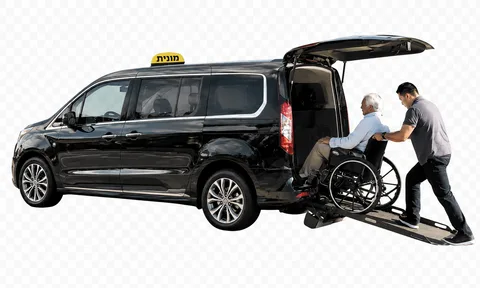
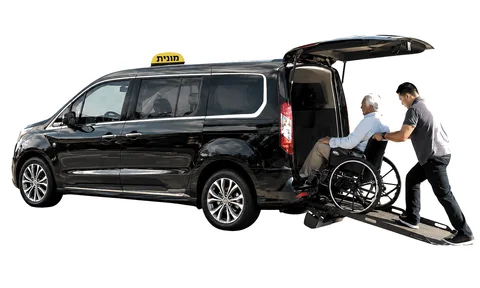
Rebuild landing page: real car images, bug fixes, a11y, SEO, Vercel config
- Fleet grid now uses 4 real car photos (WebP, checkerboard cleaned) + VIP
- Hero uses car image as LCP element (fetchpriority, srcset, width/height)
- Fix pickCity quote-injection bug (index-based lookup + escape helper)
- WhatsApp message template restored to brief wording
- Intro shortened to 0.9s, no scroll-lock (LCP < 2.5s)
- Built-in accessibility widget (font, contrast, links, stop-anim, reset; localStorage + ARIA)
- Local font-face + preload (removed Google Fonts CDN); added silver palette
- FAQPage JSON-LD now matches visible FAQ (5 items); expanded areaServed; favicon/OG links
- Floating WhatsApp moved to right (RTL); skip-link + modal focus-trap
- ~60 cities for autocomplete + service areas
- Add vercel.json (static deploy, cache + security headers) and .gitignore
- Stop tracking heavy source PNGs (WebP versions ship from assets/)

diff --git a/index.html b/index.html
@@ -199,8 +199,8 @@ header.scrolled{background:rgba(11,11,13,.9);border-block-end-color:var(--line);
 @media(max-width:880px){.nav-links{display:none}.nav .btn-gold{padding:10px 18px}}
 
 /* ====================== hero ====================== */
-.hero{position:relative;min-height:100svh;display:flex;align-items:center;
-  padding-block:120px 70px;overflow:hidden}
+.hero{position:relative;min-height:min(760px,92svh);display:flex;align-items:center;
+  padding-block:104px 64px;overflow:hidden}
 .hero::before{content:"";position:absolute;inset-block-start:-22%;inset-inline-end:-12%;
   width:720px;height:720px;border-radius:50%;
   background:radial-gradient(circle,var(--gold-glow),transparent 60%);filter:blur(24px);z-index:0;
@@ -264,8 +264,7 @@ header.scrolled{background:rgba(11,11,13,.9);border-block-end-color:var(--line);
 .car-card:hover{border-color:rgba(217,190,134,.4);transform:translateY(-4px)}
 .car-card:hover::before{transform:scaleX(1)}
 .car-card.vip{border-color:rgba(217,190,134,.3)}
-.car-media{position:relative;aspect-ratio:16/10;
-  background:linear-gradient(160deg,#EEF0F2,#D7DBE0 60%,#C9CDD3);overflow:hidden;
+.car-media{position:relative;aspect-ratio:16/10;background:#fff;overflow:hidden;
   display:flex;align-items:center;justify-content:center}
 .car-media img{width:100%;height:100%;object-fit:cover;object-position:center;
   transition:transform .6s var(--ease)}
@@ -714,3 +713,192 @@ function toggleFaq(btn){
   const item=btn.parentElement, ans=item.querySelector(".faq-a"), open=item.classList.toggle("open");
   btn.setAttribute("aria-expanded",open); ans.style.maxHeight = open ? ans.scrollHeight+"px" : null;
 }
+
+/* ---------- modal + two-step flow ---------- */
+let lastFocus=null;
+function setFieldError(inputId,errId,msg){
+  const inp=$(inputId),err=$(errId);
+  if(msg){ inp.setAttribute("aria-invalid","true"); err.textContent=msg; inp.focus(); }
+  else { inp.setAttribute("aria-invalid","false"); err.textContent=""; }
+}
+function openModal(key){
+  state.vehicle=VEHICLES.find(v=>v.key===key); state.origin=""; state.destination=""; state.step=1;
+  $("vehicleTag").textContent=state.vehicle.name;
+  $("originInput").value=""; $("destInput").value="";
+  setFieldError("originInput","originErr",null); setFieldError("destInput","destErr",null);
+  showStep(1);
+  lastFocus=document.activeElement;
+  const ov=$("overlay"); ov.classList.add("show"); ov.setAttribute("aria-hidden","false");
+  document.body.classList.add("locked");
+  setTimeout(()=>$("originInput").focus(),130);
+}
+function closeModal(){
+  const ov=$("overlay"); ov.classList.remove("show"); ov.setAttribute("aria-hidden","true");
+  document.body.classList.remove("locked"); if(lastFocus)lastFocus.focus();
+}
+function showStep(n){
+  state.step=n; $("step1").style.display=n===1?"block":"none"; $("step2").style.display=n===2?"block":"none";
+  $("dot1").classList.toggle("active",n>=1); $("dot2").classList.toggle("active",n>=2);
+  if(n===2){ updatePreview(); setTimeout(()=>$("destInput").focus(),70); }
+}
+function goStep(n){
+  if(n===2){
+    const v=$("originInput").value.trim();
+    if(!v){ setFieldError("originInput","originErr","נא להזין כתובת מוצא"); return; }
+    setFieldError("originInput","originErr",null); state.origin=v;
+  }
+  showStep(n);
+}
+function updatePreview(){
+  state.destination=$("destInput").value.trim();
+  $("msgPreview").innerHTML=`ההודעה שתישלח:\n<b>שלום, מעוניין/ת להזמין ${esc(state.vehicle.msg)}.</b>\n`+
+    `מוצא: <b>${esc(state.origin||"—")}</b>\nיעד: <b>${esc(state.destination||"—")}</b>\nמתי: עכשיו`;
+}
+function buildLink(text){ return `https://wa.me/${CONFIG.whatsappNumber}?text=${encodeURIComponent(text)}`; }
+function sendWhatsApp(){
+  state.destination=$("destInput").value.trim();
+  if(!state.destination){ setFieldError("destInput","destErr","נא להזין כתובת יעד"); return; }
+  setFieldError("destInput","destErr",null);
+  const text=`שלום, מעוניין/ת להזמין ${state.vehicle.msg}.\nמוצא: ${state.origin}\nיעד: ${state.destination}\nמתי: עכשיו`;
+  track("lead_whatsapp",{vehicle:state.vehicle.key,origin:state.origin,destination:state.destination});
+  window.open(buildLink(text),"_blank"); closeModal();
+}
+function generalWhatsApp(){ track("lead_whatsapp_general",{}); window.open(buildLink("שלום, אשמח לפרטים ולהזמנת מונית."),"_blank"); }
+
+function track(event,params){
+  try{ window.dataLayer=window.dataLayer||[]; window.dataLayer.push({event,...params});
+    if(typeof gtag==="function")gtag("event",event,params);
+    if(typeof fbq==="function")fbq("trackCustom",event,params);
+    console.log("[track]",event,params);
+  }catch(e){console.warn(e);}
+}
+
+/* ---------- autocomplete combobox (index-based, quote-safe) ---------- */
+function setupCombo(inputId,listId){
+  const input=$(inputId),list=$(listId); let hl=-1;
+  const hide=()=>{ list.classList.remove("show"); input.setAttribute("aria-expanded","false"); };
+  const render=q=>{
+    const items=CONFIG.cities.filter(c=>c.includes(q)).slice(0,8);
+    if(!items.length||(items.length===1&&items[0]===q)){ hide(); return; }
+    list._items=items;
+    list.innerHTML=items.map((c,i)=>
+      `<button type="button" role="option" data-i="${i}" onmousedown="event.preventDefault()" onclick="pickCity('${inputId}','${listId}',${i})">${esc(c)}</button>`
+    ).join("");
+    list.classList.add("show"); input.setAttribute("aria-expanded","true"); hl=-1;
+  };
+  input.addEventListener("input",e=>{
+    setFieldError(inputId, inputId==="originInput"?"originErr":"destErr", null);
+    render(e.target.value.trim()); if(inputId==="destInput")updatePreview();
+  });
+  input.addEventListener("focus",e=>{ if(e.target.value.trim())render(e.target.value.trim()); });
+  input.addEventListener("blur",()=>setTimeout(hide,150));
+  input.addEventListener("keydown",e=>{
+    const btns=[...list.querySelectorAll("button")];
+    if(e.key==="ArrowDown"){e.preventDefault();hl=Math.min(hl+1,btns.length-1);}
+    else if(e.key==="ArrowUp"){e.preventDefault();hl=Math.max(hl-1,0);}
+    else if(e.key==="Enter"&&hl>=0&&btns[hl]){e.preventDefault();btns[hl].click();return;}
+    else if(e.key==="Escape"){hide();return;}
+    else return;
+    btns.forEach((b,i)=>b.classList.toggle("hl",i===hl));
+  });
+}
+function pickCity(inputId,listId,i){
+  const list=$(listId); const city=(list._items||[])[i]; if(city==null)return;
+  $(inputId).value=city; list.classList.remove("show"); $(inputId).setAttribute("aria-expanded","false");
+  setFieldError(inputId, inputId==="originInput"?"originErr":"destErr", null);
+  if(inputId==="destInput")updatePreview();
+}
+
+/* ---------- focus trap for modal ---------- */
+function trapFocus(e){
+  const ov=$("overlay"); if(!ov.classList.contains("show")||e.key!=="Tab")return;
+  const f=[...ov.querySelectorAll('button,[href],input,[tabindex]:not([tabindex="-1"])')]
+    .filter(el=>el.offsetParent!==null);
+  if(!f.length)return;
+  const first=f[0], last=f[f.length-1];
+  if(e.shiftKey&&document.activeElement===first){e.preventDefault();last.focus();}
+  else if(!e.shiftKey&&document.activeElement===last){e.preventDefault();first.focus();}
+}
+
+function applyConfig(){
+  $("footPhone").textContent="טלפון: "+CONFIG.displayPhone;
+  $("footPhone").href="tel:"+CONFIG.displayPhone.replace(/\D/g,"");
+  $("footHours").textContent=CONFIG.hoursText; $("yr").textContent=new Date().getFullYear();
+  if(CONFIG.ga4Id){const s=document.createElement("script");s.async=true;
+    s.src="https://www.googletagmanager.com/gtag/js?id="+CONFIG.ga4Id;document.head.appendChild(s);
+    window.dataLayer=window.dataLayer||[];window.gtag=function(){dataLayer.push(arguments)};
+    gtag("js",new Date());gtag("config",CONFIG.ga4Id);}
+  if(CONFIG.metaPixelId){!function(f,b,e,v,n,t,s){if(f.fbq)return;n=f.fbq=function(){n.callMethod?n.callMethod.apply(n,arguments):n.queue.push(arguments)};
+    if(!f._fbq)f._fbq=n;n.push=n;n.loaded=!0;n.version="2.0";n.queue=[];t=b.createElement(e);t.async=!0;
+    t.src=v;s=b.getElementsByTagName(e)[0];s.parentNode.insertBefore(t,s)}(window,document,"script","https://connect.facebook.net/en_US/fbevents.js");
+    fbq("init",CONFIG.metaPixelId);fbq("track","PageView");}
+}
+
+/* ---------- accessibility widget (self-hosted, persisted) ---------- */
+const A11Y_KEY="horian_a11y", A11Y_OPTS=["font","contrast","links","stop"];
+function a11yClass(opt){return "a11y-"+opt;}
+function loadA11y(){
+  let saved=[]; try{saved=JSON.parse(localStorage.getItem(A11Y_KEY))||[];}catch(e){}
+  A11Y_OPTS.forEach(opt=>{
+    const on=saved.includes(opt);
+    document.body.classList.toggle(a11yClass(opt),on);
+    const btn=document.querySelector(`[data-a11y="${opt}"]`); if(btn)btn.setAttribute("aria-pressed",on);
+  });
+  document.documentElement.style.setProperty("--fs-mult", saved.includes("font") ? "1.18" : "1");
+}
+function toggleA11y(opt){
+  const on=!document.body.classList.contains(a11yClass(opt));
+  document.body.classList.toggle(a11yClass(opt),on);
+  const btn=document.querySelector(`[data-a11y="${opt}"]`); if(btn)btn.setAttribute("aria-pressed",on);
+  if(opt==="font")document.documentElement.style.setProperty("--fs-mult", on ? "1.18" : "1");
+  const active=A11Y_OPTS.filter(o=>document.body.classList.contains(a11yClass(o)));
+  try{localStorage.setItem(A11Y_KEY,JSON.stringify(active));}catch(e){}
+}
+function resetA11y(){
+  A11Y_OPTS.forEach(opt=>{ document.body.classList.remove(a11yClass(opt));
+    const btn=document.querySelector(`[data-a11y="${opt}"]`); if(btn)btn.setAttribute("aria-pressed","false"); });
+  document.documentElement.style.setProperty("--fs-mult","1");
+  try{localStorage.removeItem(A11Y_KEY);}catch(e){}
+}
+function setupA11yWidget(){
+  const toggle=$("a11yToggle"), panel=$("a11yPanel");
+  const openPanel=()=>{ panel.classList.add("show"); toggle.setAttribute("aria-expanded","true"); };
+  const closePanel=()=>{ panel.classList.remove("show"); toggle.setAttribute("aria-expanded","false"); };
+  toggle.addEventListener("click",()=>panel.classList.contains("show")?closePanel():openPanel());
+  $("a11yClose").addEventListener("click",()=>{closePanel();toggle.focus();});
+  document.querySelectorAll("[data-a11y]").forEach(btn=>
+    btn.addEventListener("click",()=>toggleA11y(btn.dataset.a11y)));
+  $("a11yReset").addEventListener("click",resetA11y);
+  document.addEventListener("click",e=>{
+    if(panel.classList.contains("show")&&!panel.contains(e.target)&&e.target!==toggle&&!toggle.contains(e.target))closePanel();
+  });
+  document.addEventListener("keydown",e=>{ if(e.key==="Escape"&&panel.classList.contains("show")){closePanel();toggle.focus();} });
+  loadA11y();
+}
+
+/* ---------- reveal on scroll ---------- */
+function setupReveals(){
+  if(!("IntersectionObserver" in window)){document.querySelectorAll(".reveal").forEach(el=>el.classList.add("in"));return;}
+  const io=new IntersectionObserver((entries)=>{
+    entries.forEach(en=>{ if(en.isIntersecting){ en.target.classList.add("in"); io.unobserve(en.target);} });
+  },{threshold:.12,rootMargin:"0px 0px -8% 0px"});
+  document.querySelectorAll(".reveal").forEach(el=>io.observe(el));
+}
+
+/* ---------- init ---------- */
+renderFleet(); renderAreas(); renderFAQ(); applyConfig();
+setupCombo("originInput","originList"); setupCombo("destInput","destList");
+setupReveals(); setupA11yWidget();
+
+// hero underline draw (hero text itself is visible from first paint via CSS — LCP safe)
+requestAnimationFrame(()=>{ const a=$("accentWord"); if(a)a.classList.add("in"); });
+
+addEventListener("scroll",()=>$("hdr").classList.toggle("scrolled",scrollY>20),{passive:true});
+addEventListener("keydown",e=>{
+  if(e.key==="Escape"&&$("overlay").classList.contains("show"))closeModal();
+  trapFocus(e);
+});
+$("overlay").addEventListener("click",e=>{ if(e.target===$("overlay"))closeModal(); });
+</script>
+</body>
+</html>
